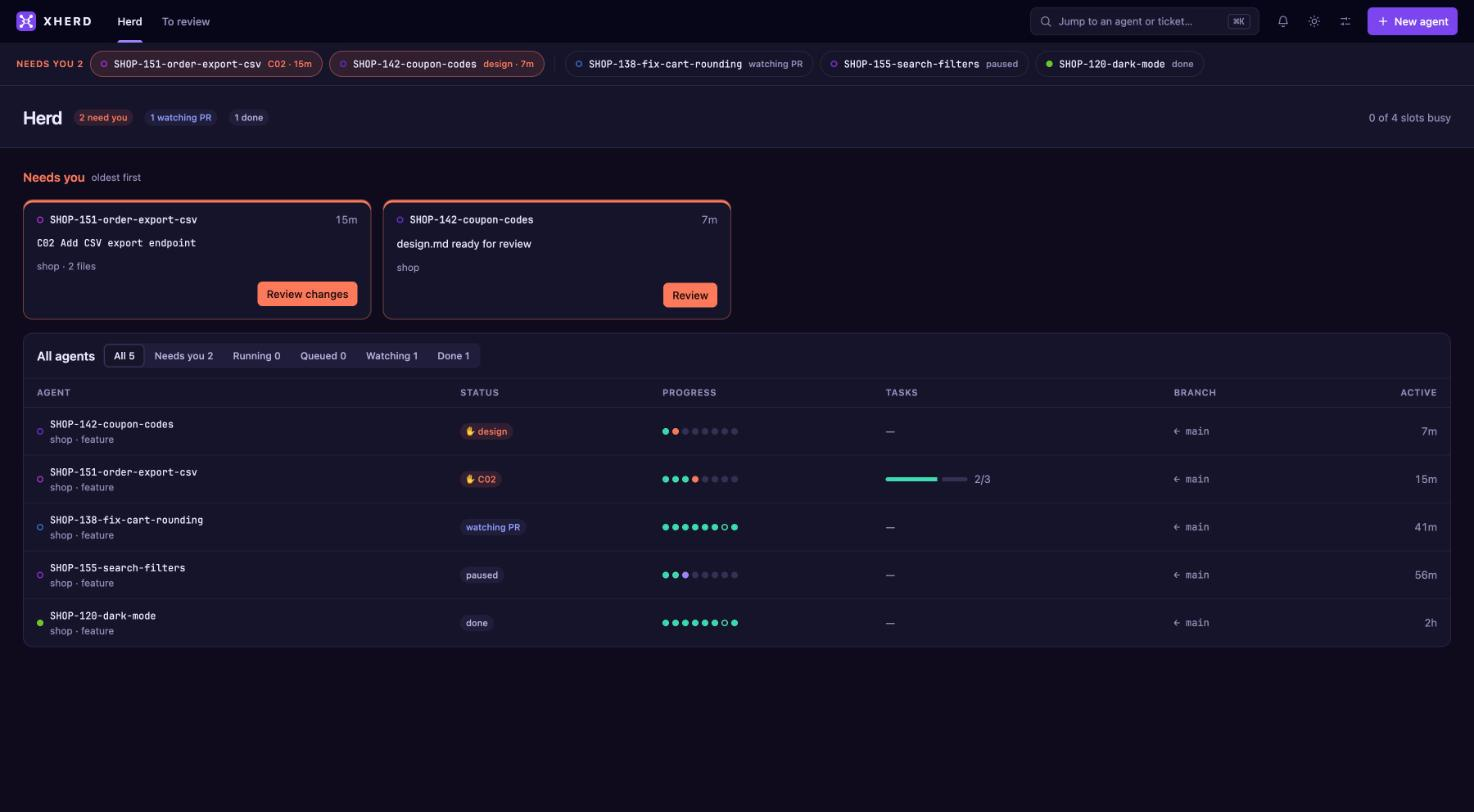
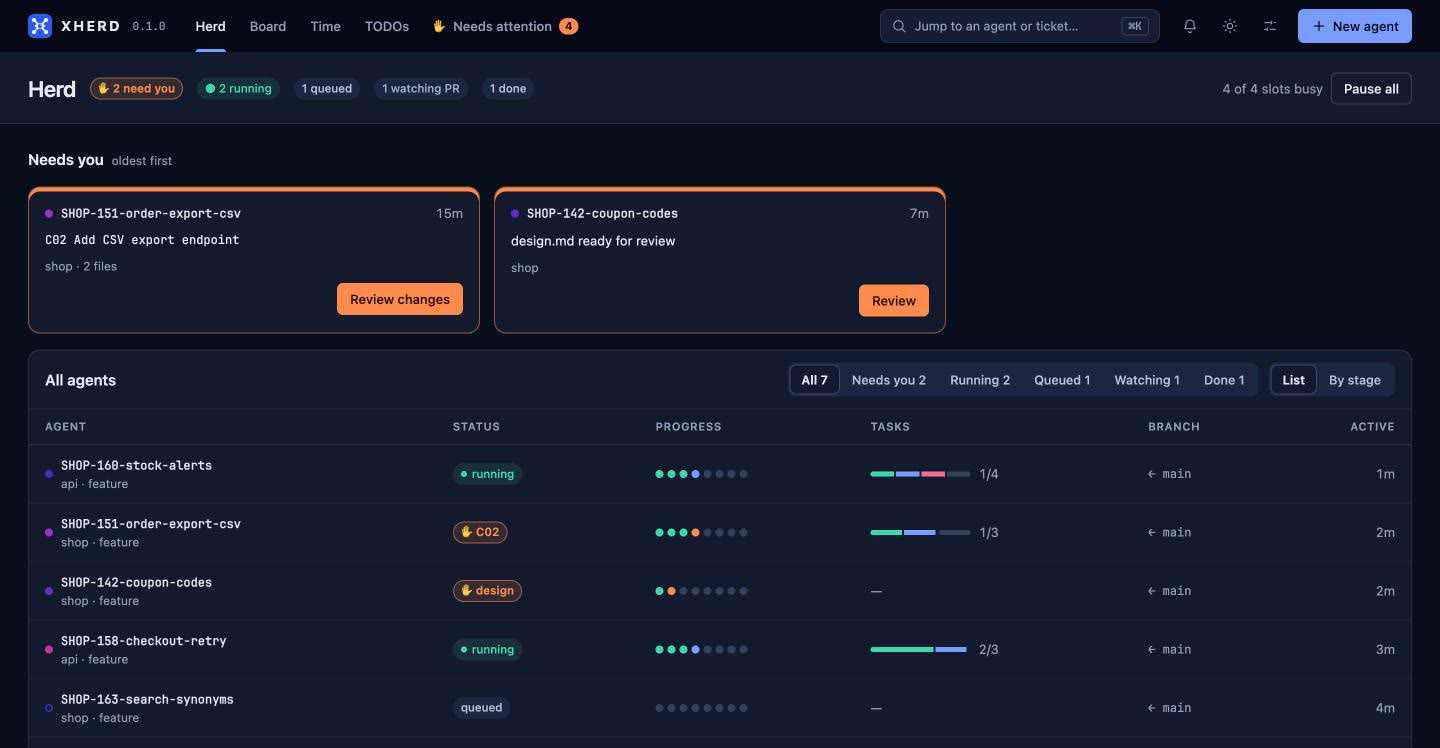
README: GIF tour and screenshots of the main screens
Herd, document and commit review, inline comments, Board and Needs
attention, all with mocked data. The Board line moves from Planned to
the highlights.

Claude-Session: https://claude.ai/code/session_01E8xgWsoMdtdVgi26wve5d5

diff --git a/README.md b/README.md
@@ -15,8 +15,8 @@ I got overwhelmed running several coding tasks at once: terminals piled up and a
 
 ## What is xherd?
 
-![The xherd Herd view: two agents waiting for review, one watching a pull request, one paused, one done](doc/assets/herd.jpg)
-*The Herd view, with mocked data: what needs you is on top, everything else below.*
+![A tour of xherd: the Herd, reviewing a design, reviewing a commit, inline comments, the Board, and Needs attention](doc/assets/tour.gif)
+*A short tour, with mocked data. Stills of each screen are [below](#screenshots).*
 
 You hand xherd your tickets. It gives each one to a coding agent in its own sandbox, and shows you all of them on one screen.
 
@@ -41,14 +41,28 @@ Working today:
 - Agents survive restarts: they are parked at their gate or resumed, not lost.
 - Git access from the UI (HTTPS tokens, SSH keys, per-owner commit identity) and repositories cloned by URL.
 - Plugins in any language (the CLI is the plugin API). Single Rust binary, web UI embedded.
+- A Board with every stage and task of every agent (pending, in progress, done), a Needs attention page, time tracking and TODOs.
 
 Planned:
 
 - Adjustable autonomy, tripwires and guardrails (for example, blocking pushes).
 - Following the pull request after it opens: CI, review comments, replies.
 - Other runtimes beyond Claude Code (Codex, opencode…), and a runtime, model and effort per step.
-- Board, review and time views, notifications, and access from your phone.
+- Notifications and access from your phone.
 - Declarative views and backups.
+
+## Screenshots
+
+All with mocked data.
+
+| | |
+|---|---|
+| ![The Herd: two agents waiting for you on top, every agent below with its status, progress and tasks](doc/assets/herd.jpg) | ![An agent waiting at the design gate: the design document, with Approve and Request changes on top](doc/assets/review-design.jpg) |
+| **Herd.** What needs you on top, every agent below. | **Review a document.** Approve the design, or ask for changes. |
+| ![A commit waiting for approval: its diff, the commit message and the files it contains](doc/assets/review-commit.jpg) | ![A review comment on a line of the diff, and a Send 2 comments button to send them to the agent](doc/assets/review-comments.jpg) |
+| **Review a commit.** xherd commits it when you approve. | **Comment on lines.** Comments go back to the agent as one change request. |
+| ![The Board: stages and tasks of every agent in Pending, In progress and Done, with TODOs](doc/assets/board.jpg) | ![Needs attention: agents waiting for you, a due TODO, and an approval made by xherd](doc/assets/attention.jpg) |
+| **Board.** Every stage and task of every agent, and your TODOs. | **Needs attention.** Everything waiting on you in one place. |
 
 ## Documentation
 
